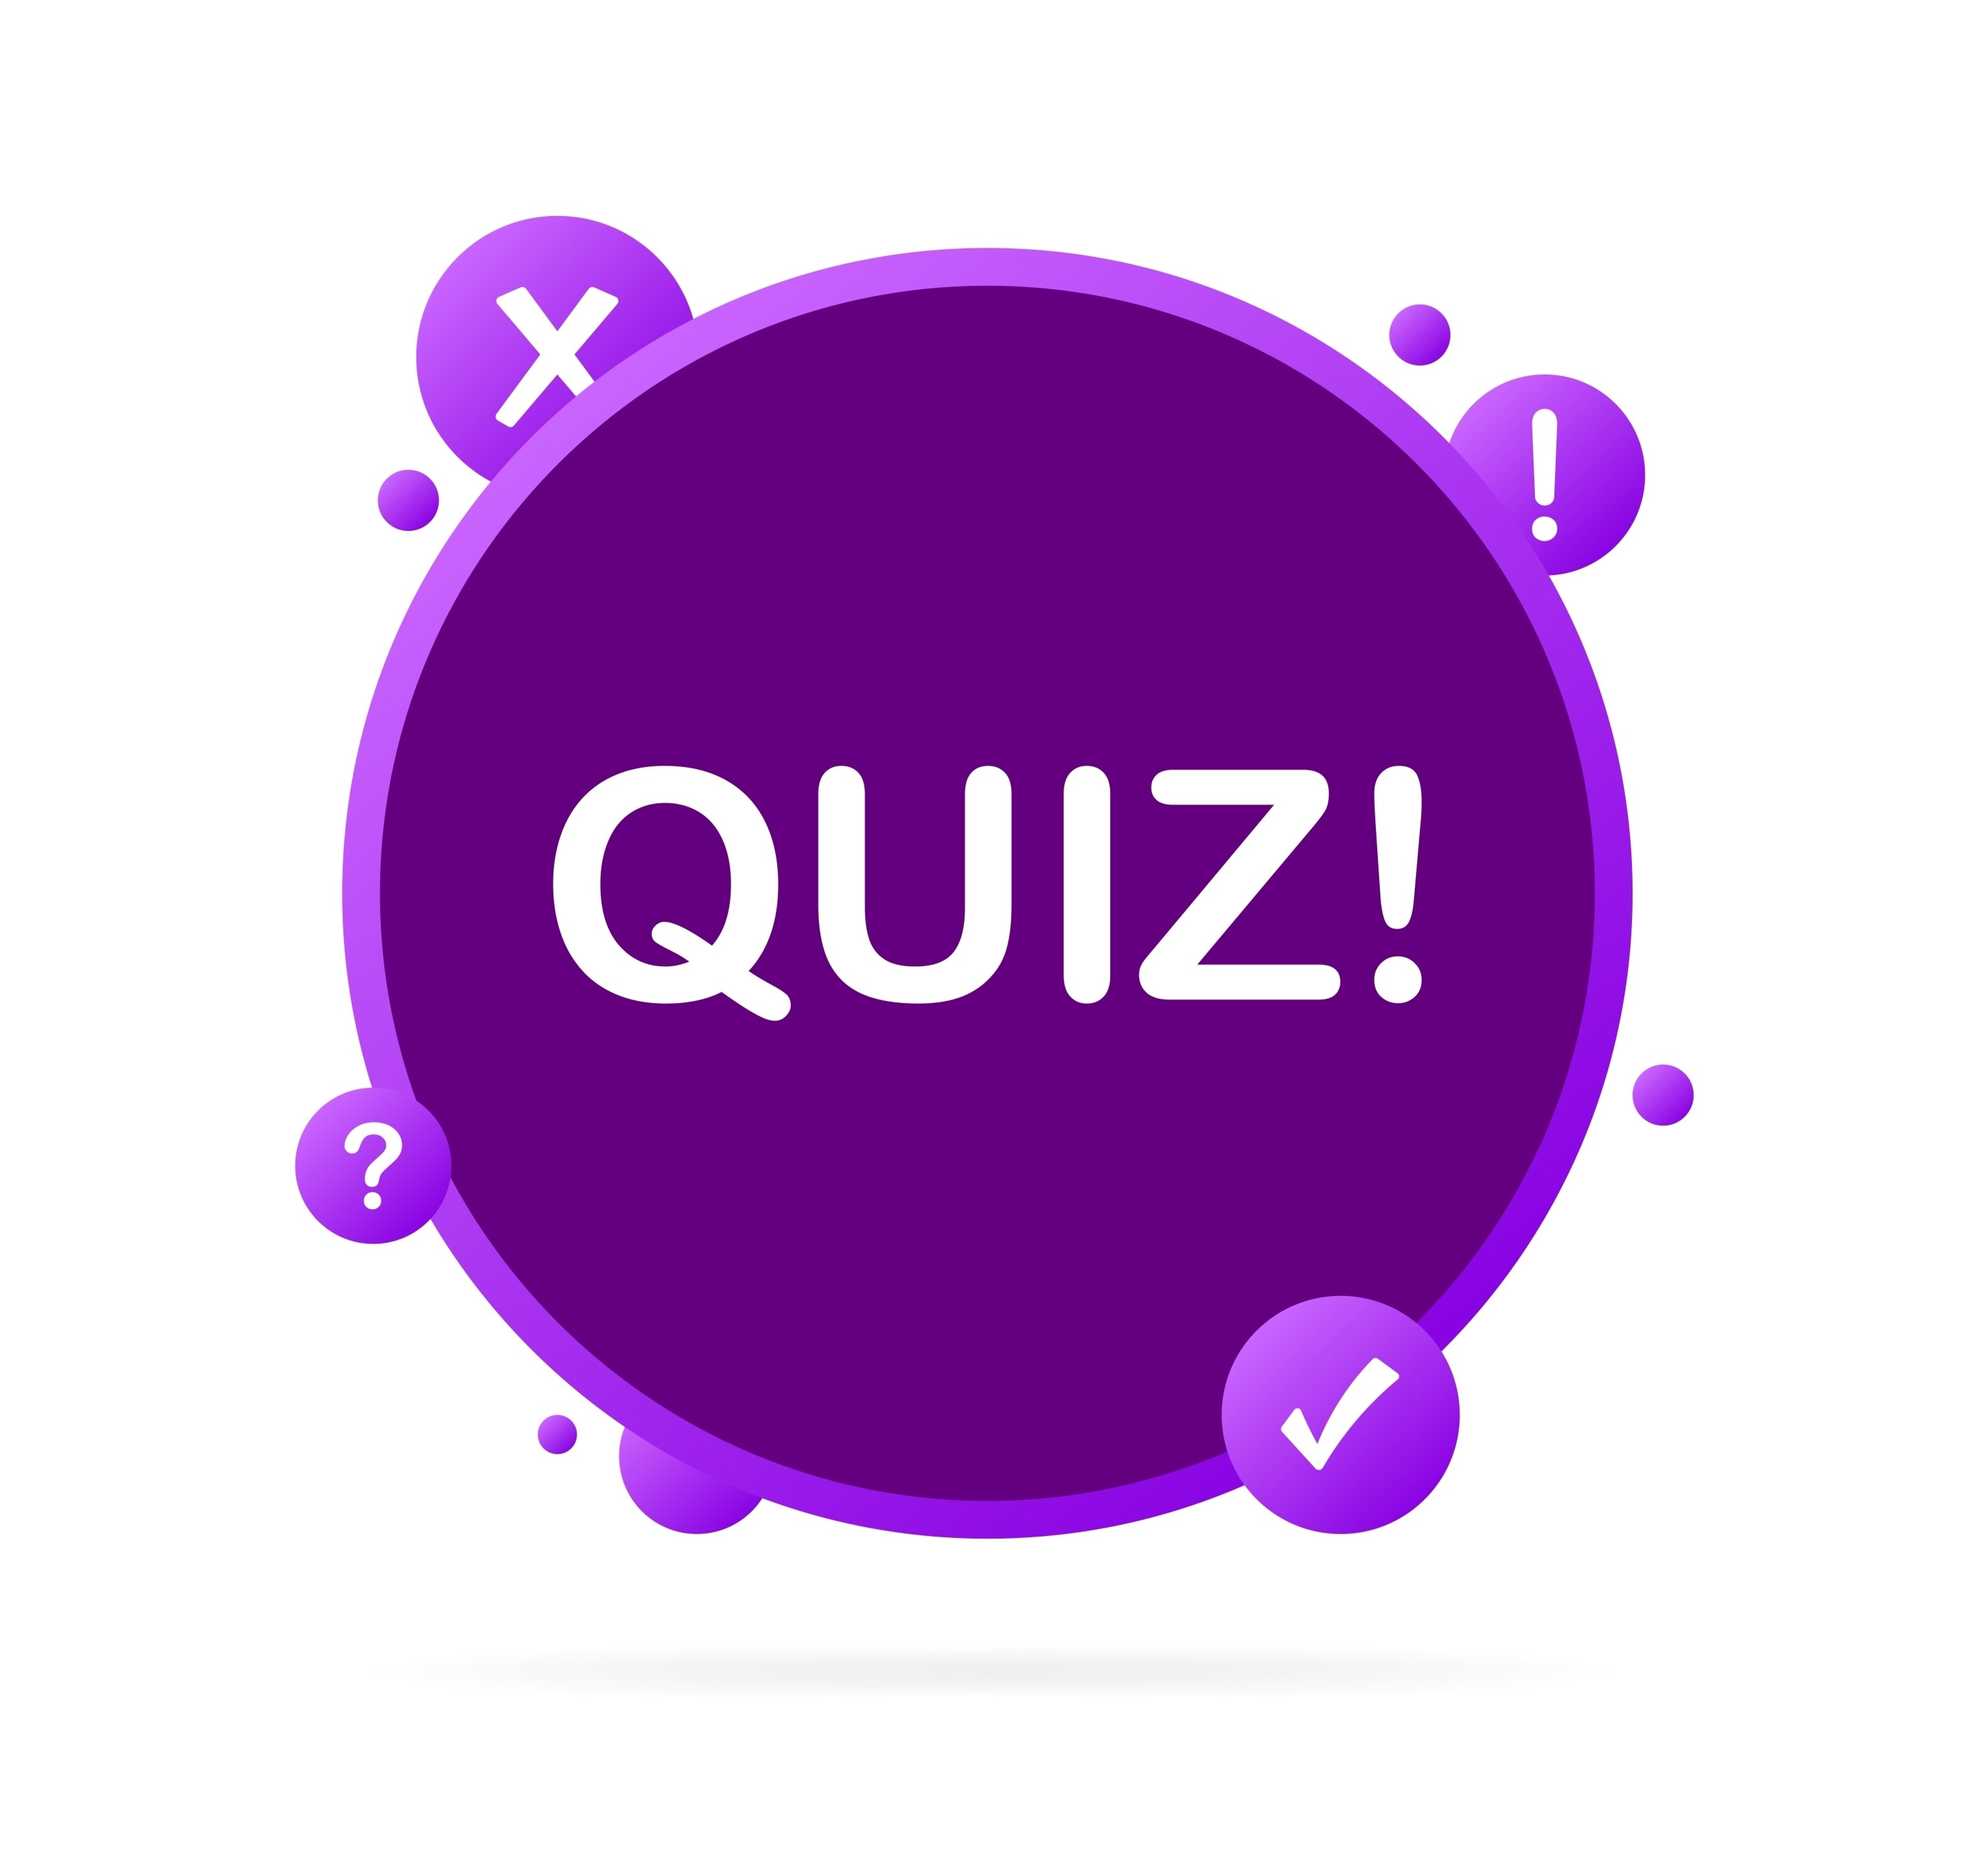
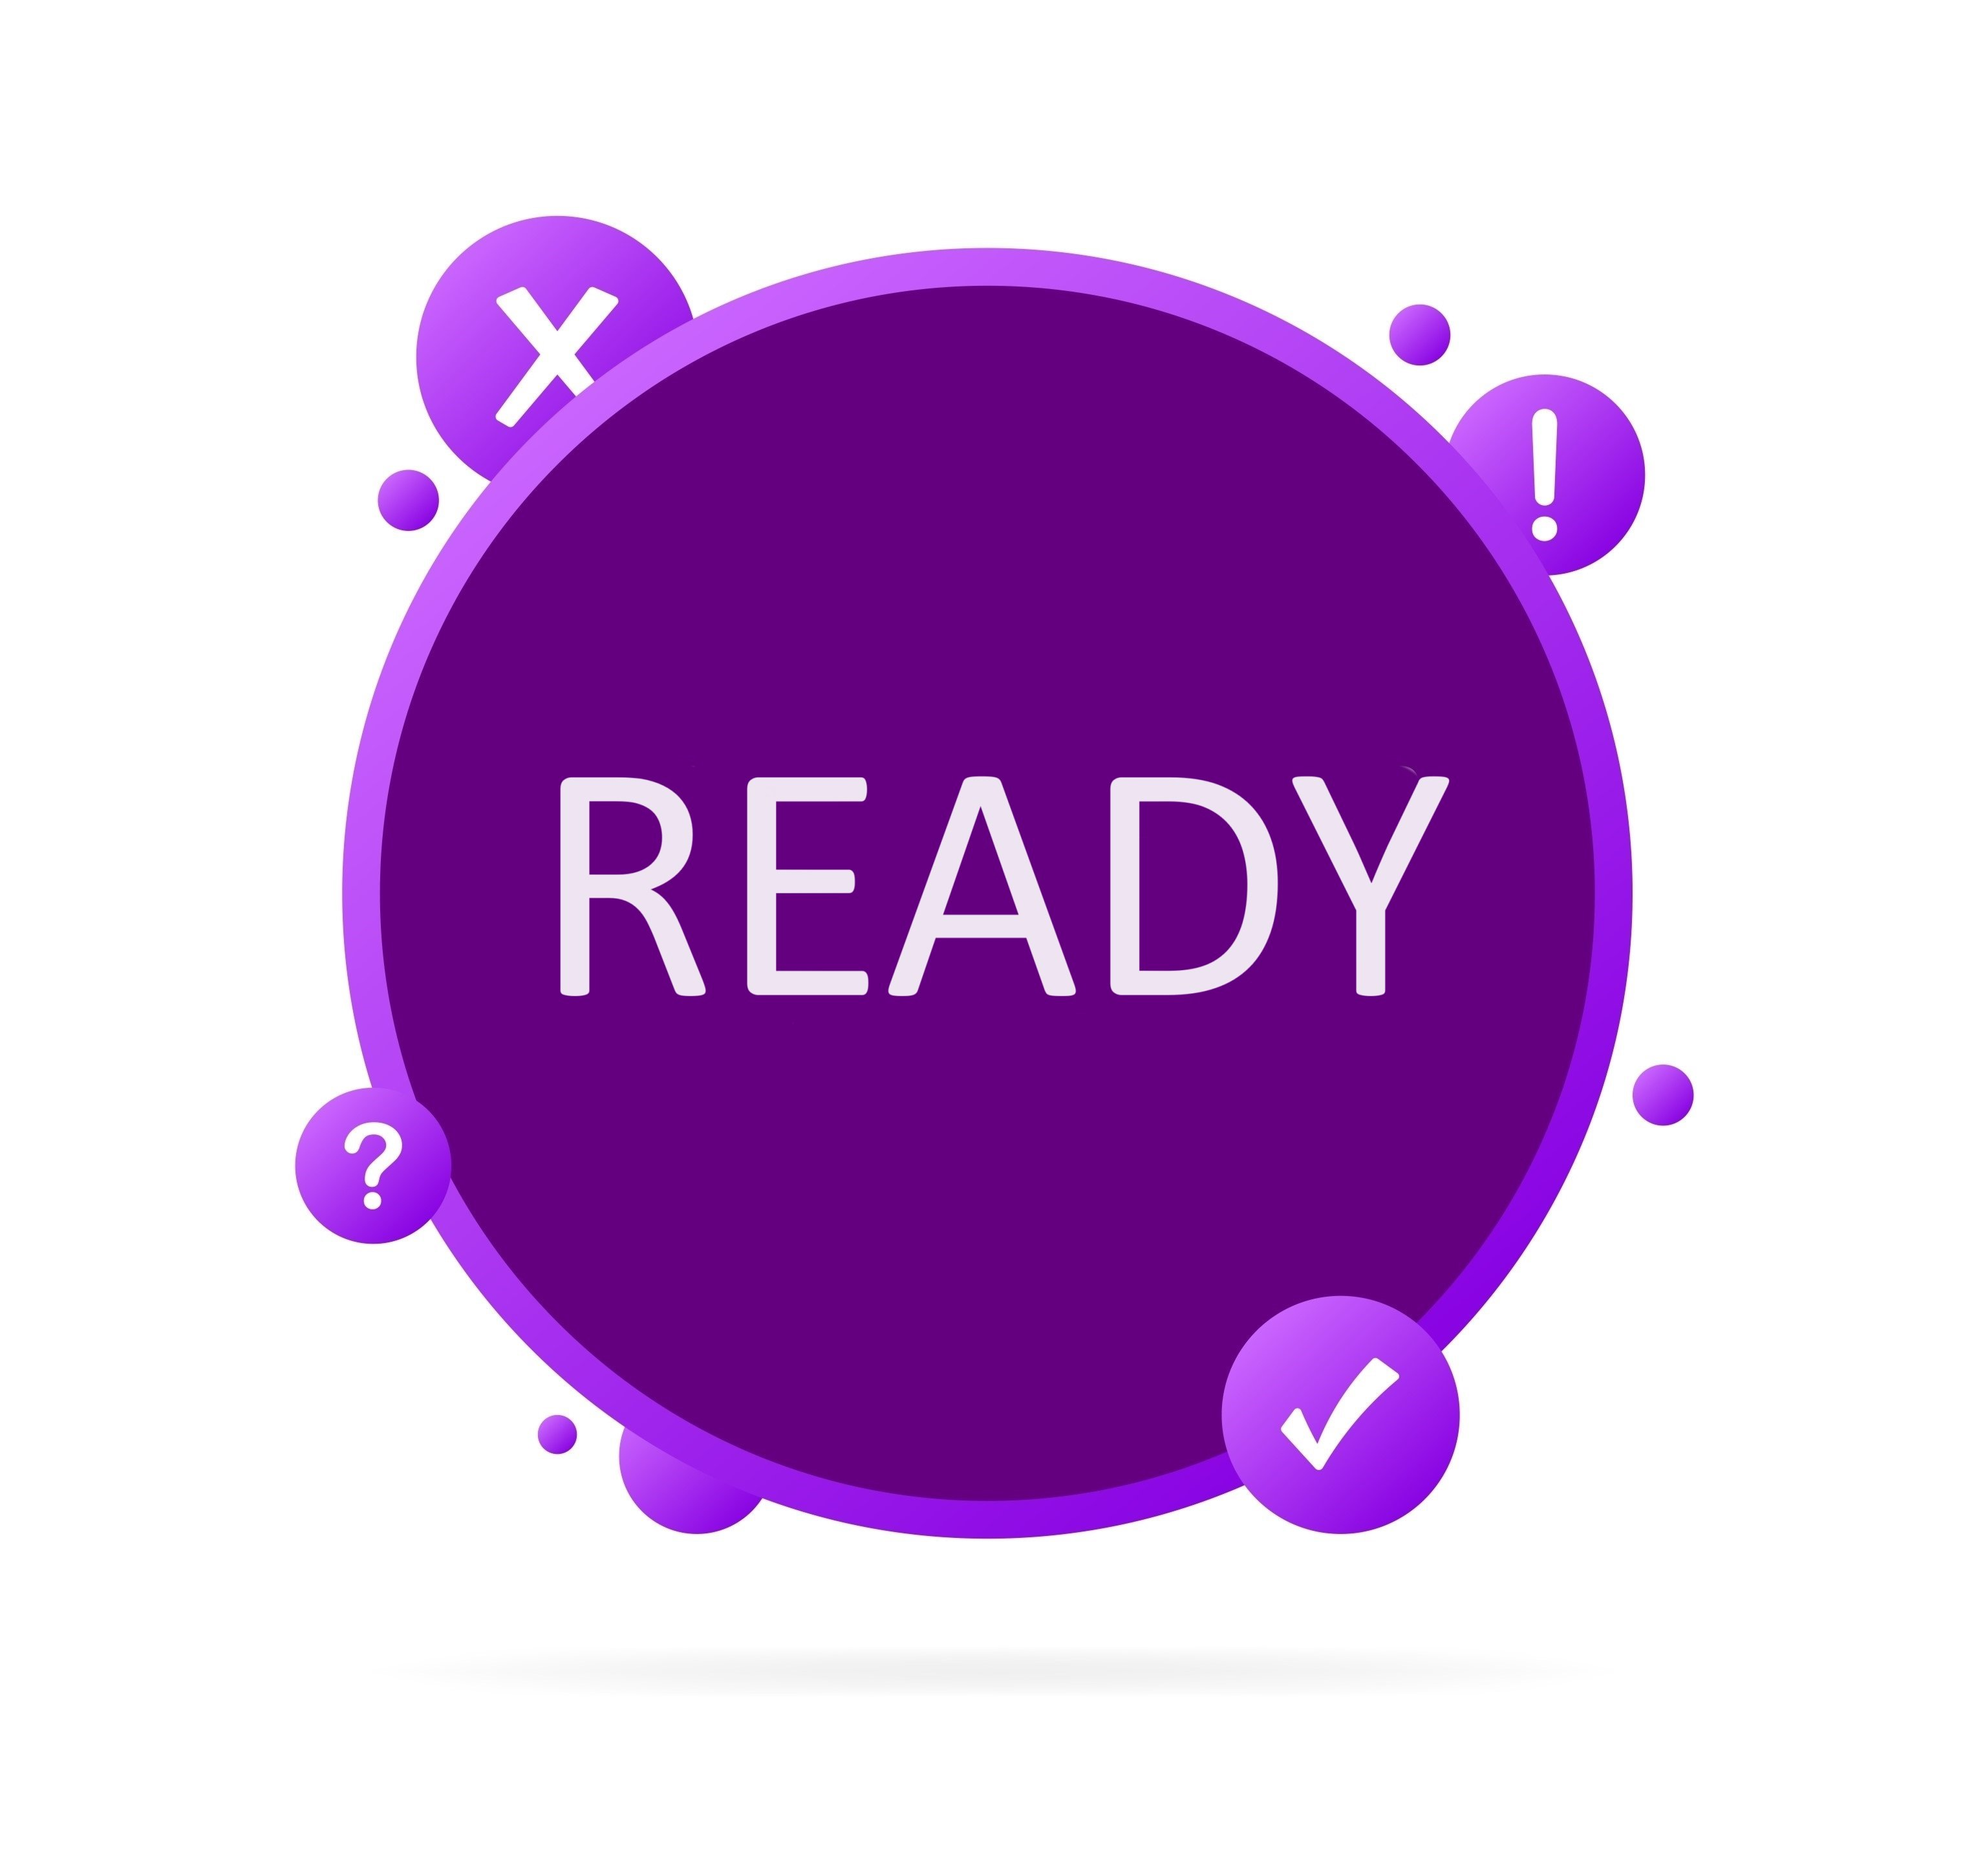
added ready btn and animation

Changed region(s): [[0.2787, 0.4044, 0.7431, 0.56]]

diff --git a/src/pages/GameBoard.js b/src/pages/GameBoard.js
@@ -1,14 +1,22 @@
 import { useContext, useEffect } from 'react';
 import { Col, Row, Container } from 'reactstrap';
 import { gameContext } from '../features/gameState';
+import { useSpring, animated } from '@react-spring/web';
 import PlayerNameForm from '../features/PlayerNameForm';
 import PlayersList from '../features/PlayersList';
 import Dice from '../features/Dice';
 import CuteLoading from '../components/Loading';
-import readyImg from '../assets/images/button_ready.png';
+import readyImg from '../assets/images/shutterstock_2350330561.png';
 
 const GameBoard = () => {
     const [gameState, dispatch] = useContext(gameContext);
+
+    const readyBtnAnimation = useSpring({
+        from: { translateX: '-2000px', rotate: '360deg' },
+        to: { translateX: '0px', rotate: '0deg' },
+        config: { duration: 2000},
+        delay: 1000
+    });
 
     const startGame = () => {
         if (gameState.listPlayers.length < 2) {
@@ -98,15 +106,18 @@ const GameBoard = () => {
                                         && <Dice />
                                     }
                                 </Col>
-                                {/* {!gameState.gameStarted &&
-                                    <Col>
-                                        {/* <button onClick={startGame} className='btn-custom fs-5 text-white fw-bold'>Ready</button> *}
-                                        <img
-                                            src={readyImg}
-                                            alt='Ready To Play'
-                                        />
+                                {!gameState.gameStarted &&
+                                    <Col className='d-flex flex-row-reverse me-5'>
+                                        <animated.div style={readyBtnAnimation}>
+                                            <img
+                                                src={readyImg}
+                                                width='100px'
+                                                alt='Ready To Play'
+                                                onClick={startGame}
+                                            />
+                                        </animated.div>
                                     </Col>
-                                } */}
+                                }
                             </Row>
                         </Col>
                     </Row>

diff --git a/src/features/Player.js b/src/features/Player.js
@@ -8,8 +8,8 @@ const Player = ({ player }) => {
     const pointsStyle = player.isPlaying ? 'text-white' : 'points-style';
 
     const playerAnimation = useSpring({
-        from: { translateX: '50px', },
-        to: { translateX: '0px' },
+        from: { translateX: '50px' },
+        to: { translateX: '0px' }
     });
 
     return (
